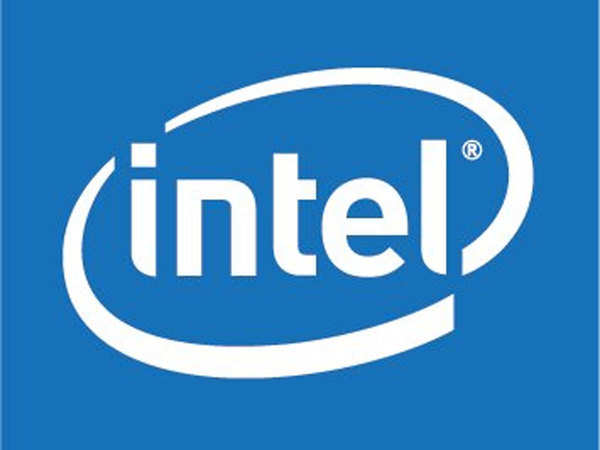
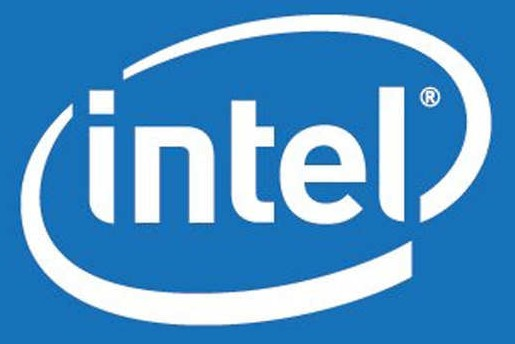
singlepage app working as expected.

diff --git a/src/assets/mock_data/Data.ts b/src/assets/mock_data/Data.ts
@@ -1,0 +1,51 @@
+import {Section} from '../../app/models/Section';
+
+export class Data{
+  static getSectionsMockData(): Section[] {
+    return [
+      {
+        title: 'Nice to meet you!',
+        content: 'My name is Elad Levy, I am 24 years old, and have been learning web development for the past 10' +
+          ' years. I am currently a second year student at the Hebrew University, pursuing a Bsc in computer' +
+          ' science. I am a very capable programmer with fast learning skills, dedication and work ethics. I know' +
+          ' everyone says that, but just fyi - I had no knowledge in Angular before building this application, which' +
+          ' took me approximately 3 days to learn and build.',
+        image: 'park.jpeg'
+      },
+      {
+        title: 'Ewise marketing',
+        content: 'Between January 2013 and March 2015 (2 years, 2 months) I was a web developer for Ewise marketing' +
+          ' - a role requiring construction and maintenance of wordpress and C#.NET .com websites and landing' +
+          ' pages. In this position I have gained experience with HTML, css, Jquery and windows/linux server' +
+          ' interfaces including mysql data management. The job often required rapid customer service and technical' +
+          ' support to a variety of immediate and ongoing issues. Also, I learned how to pilot a motorized' +
+          ' parachute. :)',
+        image: 'ppc.jpeg'
+      },
+      {
+        title: 'Military service',
+        content: 'I served in the logistics corps between March 2015 and March 2019, being an officer from August' +
+          ' 2017. During my officer roles I have managed the implementation of britanicca\'s "fox" information' +
+          ' system in the logistics school (bahad 6) overseeing over four soldiers over the course of five months,' +
+          ' after which I was promoted to command the control and supervision (shob) department, in charge of' +
+          ' instructing the various information systems used by the logistics corps (Beacon, SAP ERP), commanding up' +
+          ' to ten instructors.',
+        image: 'army.jpeg'
+      },
+      {
+        title: 'Education & Skills',
+        content: 'From October of 2019 until now I have been studying computer science in the Hebrew university. My' +
+          ' current GPA is 85. I have gained a good understanding of conceptual subjects (e.g OOP, functional' +
+          ' programming) along practical tools and a variety of programming languages (e.g Python, Java, C, C++).' +
+          ' From my time as a web developer I am proficient in HTML, css and Javascript.'
+      },
+      {
+        title: 'Summary',
+        content: 'Programming, and specifically web design, is a passion of mine from a very young age. If' +
+          ' recruited, I am driven to take any project, learn and analyze it to the core, and maximize it\'s' +
+          ' potential.',
+        image: 'beach.jpeg'
+      }
+    ];
+  }
+}

diff --git a/src/styles.css b/src/styles.css
@@ -1,1 +1,103 @@
-/* You can add global styles to this file, and also import other style files */
+body{
+  background-color: aliceblue;
+}
+
+#mainframe{
+  margin: 0 auto;
+  width:70%;
+  font-family: system-ui;
+}
+
+.wrapper{
+  margin:25px auto;
+  font-family: Helvetica;
+  background-color: #bdd2d2;
+  float:left;
+  width:100%;
+  min-height:30vw;
+  box-shadow: -9px -8px 62px 0px rgba(0,0,0,0.63);
+  -webkit-box-shadow: -9px -8px 62px 0px rgba(0,0,0,0.63);
+  -moz-box-shadow: -9px -8px 62px 0px rgba(0,0,0,0.63);
+  min-width:500px;
+  min-height: 360px;
+}
+
+#title-image{
+  display:block;
+  width:auto;
+  height: 2em;
+  display:inline;
+  vertical-align: middle;
+}
+
+#greeting{
+  display:block;
+  float:left;
+  width:100%;
+  padding:5px 0;
+  font-family: system-ui;
+  color:#fefefc;
+  font-size: 3em;
+  background-color: #1673b9;
+  text-align: center;
+}
+
+#navitemsList{
+  width:14%;
+}
+
+ul{
+  margin:0;
+  padding:0;
+}
+
+.navigationItem{
+  float:left;
+  width:100%;
+  list-style-type: none;
+  padding:10px 15px;
+  text-align: center;
+  background: rgb(22,115,185);
+  background: linear-gradient(90deg, rgba(22,115,185,1) 0%, rgba(22,115,185,1) 80%, rgb(22 115 185 / 22%) 100%);
+  color: whitesmoke;
+  font-size: larger;
+}
+
+.navigationItem:hover{
+  cursor: pointer;
+  background: linear-gradient(90deg, rgba(22,115,185,1) 0%, rgba(22,115,185,1) 93%, rgb(22 115 185 / 22%) 100%);
+}
+
+.selectedNavItem{
+  cursor: pointer;
+  background: linear-gradient(90deg, rgba(22,115,185,1) 0%, rgba(22,115,185,1) 93%, rgb(22 115 185 / 22%) 100%);
+  font-weight: bold;
+}
+
+#sectionViewer{
+  background: rgb(255,255,255);
+  background: linear-gradient(90deg, rgba(255,255,255,0.7) 90%, rgba(255,255,255,0) 100%);
+  padding: 15px;
+  display: inline-block;
+  width: 72%;
+  font-size: x-large;
+  min-height: 260px;
+}
+
+.contentPlaceHolder{
+  text-align: center;
+  margin: 0 auto;
+  display: block;
+  padding: 15%;
+  text-shadow: 0px 0px 4px #1673b9;
+  color: rgb(22 115 185 / 0.7);
+  font-size: 26px;
+}
+
+.contentImage{
+  float: right;
+  display: inline;
+  width: 20%;
+  box-shadow: 0 0 12px 2px black;
+  margin-left: 20px;
+}

diff --git a/src/app/components/section-viewer/section-viewer.component.ts b/src/app/components/section-viewer/section-viewer.component.ts
@@ -1,0 +1,29 @@
+import {Component, Input, OnChanges, OnInit, SimpleChanges} from '@angular/core';
+import {Section} from '../../models/Section';
+
+@Component({
+  selector: 'app-section-viewer',
+  templateUrl: './section-viewer.component.html',
+  styleUrls: ['./section-viewer.component.css']
+})
+export class SectionViewerComponent implements OnInit{
+  showImg: boolean;
+  contentImgID: string;
+  sectionContentID: string;
+  sectionContent: string;
+  displayedSection: Section;
+  displayedImagePath: string;
+  imagesPrefix = 'assets/images/';
+
+  @Input()
+  set section(changeSection) {
+    this.displayedSection = changeSection;
+    this.showImg = this.displayedSection.image !== undefined;
+    this.displayedImagePath = this.showImg ? this.imagesPrefix + this.displayedSection.image : '';
+    this.sectionContent = this.displayedSection.content;
+  }
+  constructor() { }
+  ngOnInit(): void {
+  }
+
+}

diff --git a/src/app/components/navigation-bar/navigation-bar.component.ts b/src/app/components/navigation-bar/navigation-bar.component.ts
@@ -1,4 +1,4 @@
-import { Component, OnInit } from '@angular/core';
+import {Component, EventEmitter, Input, OnInit, Output} from '@angular/core';
 import { Section } from '../../models/Section';
 import { SectionService } from '../../services/section.service';
 
@@ -9,10 +9,18 @@ import { SectionService } from '../../services/section.service';
 })
 export class NavigationBarComponent implements OnInit {
   sections: Section[];
+  selected: Section;
+  @Output() switchSectionRequest: EventEmitter<Section> = new EventEmitter<Section>(true);
+
   constructor(private sectionService: SectionService) { }
 
   ngOnInit(): void {
     this.sections = this.sectionService.getSections();
+  }
+
+  onSectionSelect(section): void{
+    this.selected = section;
+    this.switchSectionRequest.emit(this.selected);
   }
 
 }

diff --git a/src/app/components/content-placeholder/content-placeholder.component.spec.ts b/src/app/components/content-placeholder/content-placeholder.component.spec.ts
@@ -1,0 +1,25 @@
+import { ComponentFixture, TestBed } from '@angular/core/testing';
+
+import { ContentPlaceholderComponent } from './content-placeholder.component';
+
+describe('ContentPlaceholderComponent', () => {
+  let component: ContentPlaceholderComponent;
+  let fixture: ComponentFixture<ContentPlaceholderComponent>;
+
+  beforeEach(async () => {
+    await TestBed.configureTestingModule({
+      declarations: [ ContentPlaceholderComponent ]
+    })
+    .compileComponents();
+  });
+
+  beforeEach(() => {
+    fixture = TestBed.createComponent(ContentPlaceholderComponent);
+    component = fixture.componentInstance;
+    fixture.detectChanges();
+  });
+
+  it('should create', () => {
+    expect(component).toBeTruthy();
+  });
+});

diff --git a/src/app/app.module.ts b/src/app/app.module.ts
@@ -5,12 +5,16 @@ import { AppComponent } from './app.component';
 import { NavigationBarComponent } from './components/navigation-bar/navigation-bar.component';
 import { GreetingComponent } from './components/greeting/greeting.component';
 import {HttpClientModule} from '@angular/common/http';
+import { SectionViewerComponent } from './components/section-viewer/section-viewer.component';
+import { ContentPlaceholderComponent } from './components/content-placeholder/content-placeholder.component';
 
 @NgModule({
   declarations: [
     AppComponent,
     NavigationBarComponent,
-    GreetingComponent
+    GreetingComponent,
+    SectionViewerComponent,
+    ContentPlaceholderComponent
   ],
   imports: [
     BrowserModule,

diff --git a/src/app/components/section-viewer/section-viewer.component.spec.ts b/src/app/components/section-viewer/section-viewer.component.spec.ts
@@ -1,0 +1,25 @@
+import { ComponentFixture, TestBed } from '@angular/core/testing';
+
+import { SectionViewerComponent } from './section-viewer.component';
+
+describe('SectionViewerComponent', () => {
+  let component: SectionViewerComponent;
+  let fixture: ComponentFixture<SectionViewerComponent>;
+
+  beforeEach(async () => {
+    await TestBed.configureTestingModule({
+      declarations: [ SectionViewerComponent ]
+    })
+    .compileComponents();
+  });
+
+  beforeEach(() => {
+    fixture = TestBed.createComponent(SectionViewerComponent);
+    component = fixture.componentInstance;
+    fixture.detectChanges();
+  });
+
+  it('should create', () => {
+    expect(component).toBeTruthy();
+  });
+});

diff --git a/src/app/app.component.html b/src/app/app.component.html
@@ -1,4 +1,13 @@
-<div class="wrapper">
-  <app-greeting></app-greeting>
-  <app-navigation-bar></app-navigation-bar>
+<div id="mainframe">
+  <div class="wrapper">
+    <app-greeting></app-greeting>
+    <app-navigation-bar (switchSectionRequest)="replaceSectionViewerContent($event)">
+    </app-navigation-bar>
+    <app-section-viewer
+      [section]="currentDisplayedSection"
+      *ngIf="currentDisplayedSection !== undefined">
+    </app-section-viewer>
+    <app-content-placeholder *ngIf="currentDisplayedSection === undefined">
+    </app-content-placeholder>
+  </div>
 </div>

diff --git a/src/app/services/section.service.ts b/src/app/services/section.service.ts
@@ -1,5 +1,6 @@
 import { Injectable } from '@angular/core';
 import { Section } from '../models/Section';
+import { Data } from '../../assets/mock_data/Data';
 
 @Injectable({
   providedIn: 'root'
@@ -12,9 +13,7 @@ export class SectionService {
   }
 
   getSections(): Section[] {
-    return [
-      {title: 'title1', content: 'content1'},
-      {title: 'title2', content: 'content2'}
-    ];
+    // on a real app this will be replaced with database/REST api
+    return Data.getSectionsMockData();
   }
 }

diff --git a/src/app/components/content-placeholder/content-placeholder.component.ts b/src/app/components/content-placeholder/content-placeholder.component.ts
@@ -1,0 +1,17 @@
+import { Component, OnInit } from '@angular/core';
+
+@Component({
+  selector: 'app-content-placeholder',
+  templateUrl: './content-placeholder.component.html',
+  styleUrls: ['./content-placeholder.component.css']
+})
+export class ContentPlaceholderComponent implements OnInit {
+  placeholderText: string;
+
+  constructor() { }
+
+  ngOnInit(): void {
+    this.placeholderText = 'But first, let\'s get to know each other.';
+  }
+
+}

diff --git a/src/app/app.component.ts b/src/app/app.component.ts
@@ -1,4 +1,5 @@
 import { Component } from '@angular/core';
+import {Section} from './models/Section';
 
 @Component({
   selector: 'app-root',
@@ -7,4 +8,11 @@ import { Component } from '@angular/core';
 })
 export class AppComponent {
   title = 'ResumeWebPage';
+  currentDisplayedSection: Section;
+
+  replaceSectionViewerContent(section: Section): void{
+    this.currentDisplayedSection = section;
+  }
 }
+
+

diff --git a/src/app/components/greeting/greeting.component.ts b/src/app/components/greeting/greeting.component.ts
@@ -14,8 +14,7 @@ export class GreetingComponent implements OnInit {
 
   ngOnInit(): void {
     this.greetingDivID = 'greeting';
-    this.titleImgID = 'title-image';
-    const imagesPathPrefix = '../../assets/images/';
+    const imagesPathPrefix = 'assets/images/';
     this.titleImgSrc = imagesPathPrefix + 'intel.jpg';
   }
 
